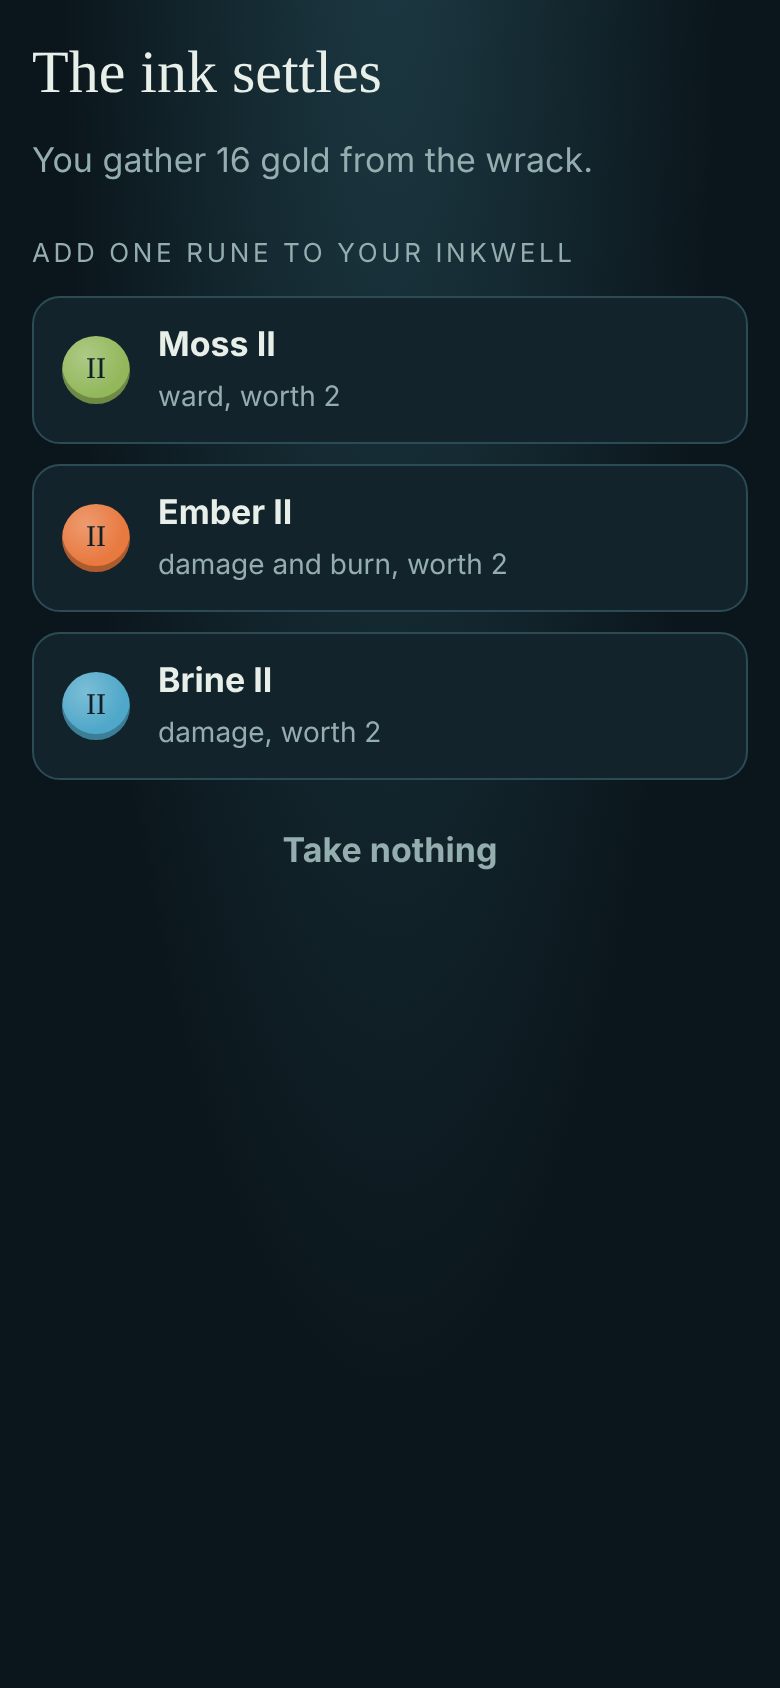
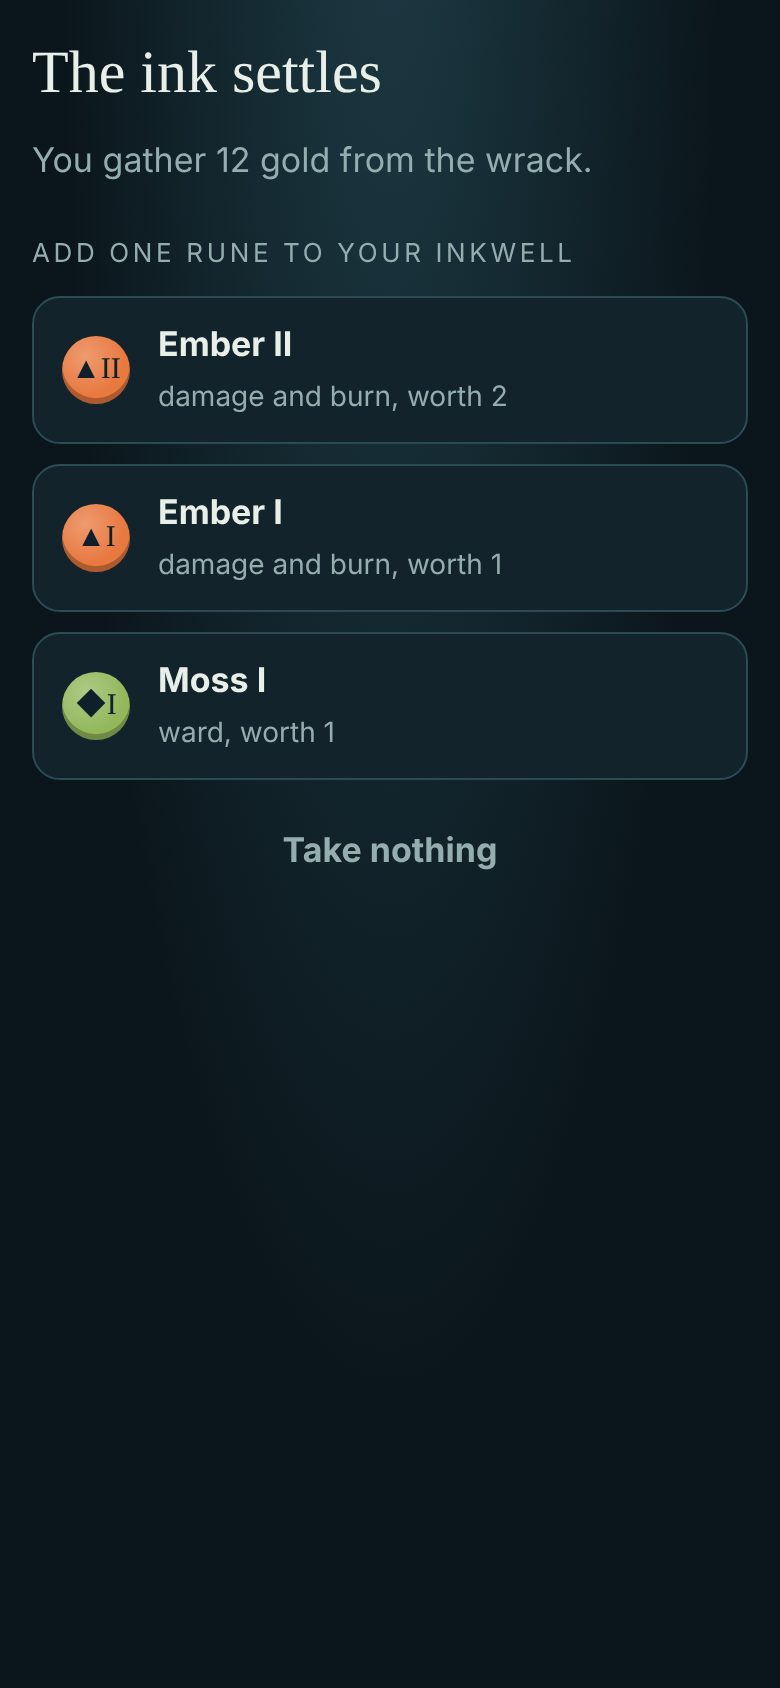
S13 Accessibility

diff --git a/saltscript/e2e/play.js b/saltscript/e2e/play.js
@@ -3,6 +3,8 @@ import { spawn } from 'node:child_process'
 import { mkdirSync } from 'node:fs'
 import { chromium } from 'playwright-core'
 
+const axeScript = new URL('../node_modules/axe-core/axe.min.js', import.meta.url).pathname
+
 const port = 5181
 const shots = new URL('../docs/screenshots/', import.meta.url).pathname
 const server = spawn('node', ['scripts/serve.js'], { env: { ...process.env, PORT: String(port) }, stdio: 'ignore' })
@@ -24,6 +26,29 @@ const swipe = async path => {
   await page.mouse.down()
   for (const point of points.slice(1)) await page.mouse.move(...point, { steps: 4 })
   await page.mouse.up()
+}
+
+const audit = async name => {
+  await page.addScriptTag({ path: axeScript })
+  const { violations } = await page.evaluate(() => window.axe.run())
+  const blocking = violations.filter(({ impact }) => ['serious', 'critical'].includes(impact))
+  assert.deepEqual(
+    blocking.flatMap(({ id, nodes }) => nodes.map(node => `${name}: ${id} ${node.html}`)),
+    [],
+  )
+}
+
+const auditForced = async (name, changes) => {
+  await page.evaluate(next => window.saltscript.play({ ...window.saltscript.run(), ...next }), changes)
+  await audit(name)
+}
+
+const tapPath = async path => {
+  for (const cell of path) {
+    const point = await page.evaluate(c => window.saltscript.pointFor(c), cell)
+    await page.mouse.click(...point)
+  }
+  await page.click('#write')
 }
 
 const screen = () => page.evaluate(() => window.saltscript.run().screen)
@@ -131,8 +156,35 @@ try {
   assert.equal(await screen(), 'map')
   assert.equal((await page.locator('.node.open').count()) >= 1, true)
   await page.context().setOffline(false)
+  await audit('title offline')
+  await page.click('.node.open >> nth=0')
+  assert.equal(await screen(), 'combat')
+  await audit('combat')
+  await page.click('#combat-codex')
+  await audit('codex')
+  await page.click('#codex-close')
+  for (let stroke = 0; stroke < 60 && (await screen()) === 'combat'; stroke++) {
+    await foeSettled()
+    if ((await screen()) !== 'combat') break
+    const path = await page.evaluate(() => window.saltscript.hint())
+    if (path) await tapPath(path)
+    else if (await page.locator('#end-turn').isEnabled()) await page.click('#end-turn')
+  }
+  assert.equal(await screen(), 'reward')
+  await page.waitForSelector('#reward:not([hidden])')
+  await audit('reward')
+  const rune = { id: 'audit', ink: 'moss', value: 2 }
+  await auditForced('map', { screen: 'map', offer: null, combat: null, floor: -1 })
+  await auditForced('market', { screen: 'market', offer: { runes: [rune], marks: ['lampOil'] } })
+  await auditForced('rest', { screen: 'rest', offer: { upgrades: [] } })
+  await auditForced('shrine', { screen: 'shrine', offer: { shrine: 'lamp' } })
+  await auditForced('end', { screen: 'defeat' })
+  await page.click('#end-title-screen')
+  await audit('title')
   assert.deepEqual(errors, [])
-  console.log('e2e passed: first fight won by real swipes, reward taken, run continued after reload')
+  console.log(
+    'e2e passed: fights won by swipes and by taps, every screen audited, run continued after reload and offline',
+  )
 } finally {
   await browser.close()
   server.kill()

diff --git a/saltscript/src/main.js b/saltscript/src/main.js
@@ -29,7 +29,11 @@ const el = (tag, props = {}, ...children) => {
 }
 
 const runeChip = (rune, props = {}) =>
-  el(props.onclick ? 'button' : 'span', { className: `rune ${rune.ink}`, ...props }, numeral(rune.value))
+  el(
+    props.onclick ? 'button' : 'span',
+    { className: `rune ${rune.ink}`, ...props },
+    `${inks[rune.ink].mark}${numeral(rune.value)}`,
+  )
 
 const runeText = rune => `${inks[rune.ink].name} ${numeral(rune.value)}`
 
@@ -256,7 +260,10 @@ const eventText = (combat, event) => {
 }
 
 const renderPreview = combat => {
-  if (path.length < 3) {
+  const ready = path.length >= 3
+  $('write').hidden = !ready
+  $('end-turn').hidden = ready
+  if (!ready) {
     $('preview').replaceChildren(
       path.length ? 'Keep going, three runes at least' : 'Trace three or more touching runes',
     )
@@ -453,35 +460,59 @@ const render = () => {
 
 const canvas = $('board')
 
+let pressed = false
+let swiped = false
+
 const extend = event => {
   const cell = board.cellAt(event.clientX, event.clientY)
-  if (cell === null) return
+  if (cell === null) return false
   if (cell === path.at(-2)) path = path.slice(0, -1)
   else if (canExtend(run.combat, path, cell)) {
     path = [...path, cell]
     scratch(path.length)
-  }
+  } else return false
   renderPreview(run.combat)
+  return true
+}
+
+const tap = event => {
+  const cell = board.cellAt(event.clientX, event.clientY)
+  if (cell === null) return
+  if (cell === path.at(-1)) {
+    path = path.slice(0, -1)
+    return renderPreview(run.combat)
+  }
+  if (extend(event) || !canExtend(run.combat, [], cell)) return
+  path = [cell]
+  scratch(1)
+  renderPreview(run.combat)
+}
+
+const writePath = () => {
+  if (!isValid(run.combat, path)) return
+  meta = saveMeta(hintSeen(meta))
+  dispatch({ type: 'write', path })
 }
 
 canvas.addEventListener('pointerdown', event => {
   if (!canAct()) return
   canvas.setPointerCapture(event.pointerId)
-  path = []
-  extend(event)
+  pressed = true
+  swiped = false
+  tap(event)
 })
 canvas.addEventListener('pointermove', event => {
-  if (path.length) extend(event)
+  if (pressed && path.length && extend(event)) swiped = true
 })
 canvas.addEventListener('pointerup', () => {
-  if (path.length && isValid(run.combat, path)) {
-    meta = saveMeta(hintSeen(meta))
-    dispatch({ type: 'write', path })
-    return
-  }
+  pressed = false
+  if (!swiped) return
+  if (canAct() && isValid(run.combat, path)) return writePath()
   path = []
   if (canAct()) renderPreview(run.combat)
 })
+
+$('write').onclick = writePath
 
 window.addEventListener('resize', () => {
   if (run?.screen === 'map') drawRoutes($('links'), $('floors'), run)
@@ -514,6 +545,10 @@ requestAnimationFrame(frame)
 navigator.serviceWorker?.register('sw.js')
 
 window.saltscript = {
+  play: next => {
+    run = next
+    render()
+  },
   run: () => run,
   hint: () => bestPath(run.combat, 5),
   pointFor: cell => board.pointFor(cell),

diff --git a/saltscript/index.html b/saltscript/index.html
@@ -29,7 +29,7 @@
         <div id="scribes" class="stack" hidden></div>
         <div id="unlocks" class="choices"></div>
       </div>
-      <p class="how">Swipe across three or more touching runes to write a glyph. One ink makes a Seal. Brine and Ember wound, Ember burns, Moss wards.</p>
+      <p class="how">Swipe across three or more touching runes to write a glyph, or tap them in order and press Write. One ink makes a Seal. Brine and Ember wound, Ember burns, Moss wards.</p>
     </section>
 
     <section id="map" class="screen" hidden>
@@ -70,6 +70,7 @@
           <span id="ward" class="pill ward"></span>
           <span id="strokes" class="strokes"></span>
           <button type="button" id="end-turn" class="secondary small">End turn</button>
+          <button type="button" id="write" class="primary small" hidden>Write</button>
         </div>
         <ul id="marks-row" class="marks-row"></ul>
       </footer>

diff --git a/saltscript/src/core/data.js b/saltscript/src/core/data.js
@@ -1,8 +1,8 @@
 export const inks = {
-  brine: { name: 'Brine', color: '#4fa8c9', does: 'damage' },
-  ember: { name: 'Ember', color: '#e8793f', does: 'damage and burn' },
-  moss: { name: 'Moss', color: '#93b85c', does: 'ward' },
-  salt: { name: 'Salt', color: '#d9d3c4', does: 'nothing' },
+  brine: { name: 'Brine', color: '#4fa8c9', does: 'damage', mark: '≈' },
+  ember: { name: 'Ember', color: '#e8793f', does: 'damage and burn', mark: '▲' },
+  moss: { name: 'Moss', color: '#93b85c', does: 'ward', mark: '◆' },
+  salt: { name: 'Salt', color: '#d9d3c4', does: 'nothing', mark: '✕' },
 }
 
 export const writable = ['brine', 'ember', 'moss']

diff --git a/saltscript/src/ui/board.js b/saltscript/src/ui/board.js
@@ -82,7 +82,9 @@ export const createBoard = canvas => {
     ctx.font = `${r * 0.72}px 'IM Fell English SC', Georgia, serif`
     ctx.textAlign = 'center'
     ctx.textBaseline = 'middle'
-    ctx.fillText(numeral(rune.value), x, y + r * 0.04)
+    ctx.fillText(numeral(rune.value), x, y - r * 0.12)
+    ctx.font = `${r * 0.42}px system-ui, sans-serif`
+    ctx.fillText(inks[rune.ink].mark, x, y + r * 0.45)
   }
 
   const draw = (combat, path) => {

diff --git a/saltscript/src/ui/style.css b/saltscript/src/ui/style.css
@@ -733,3 +733,8 @@ button.rune {
 .codex .primary {
   width: 100%;
 }
+
+.you-meter b {
+  color: #0f1f28;
+  text-shadow: none;
+}

diff --git a/saltscript/BACKLOG.md b/saltscript/BACKLOG.md
@@ -4,10 +4,6 @@ The build agent takes items from the top of **Next**, one commit each. Scheduled
 
 ## Next
 
-### S13 Accessibility
-
-axe in e2e on every screen with no serious or critical violations; a tap alternative to swiping (tap runes in order, then Write); each ink also has a shape mark inside the seal so colour is not the only cue. Done when e2e wins a fight using taps only.
-
 ### S14 Showcase
 
 `README.md` with pitch, how to play, how to run, screenshots of title, map, combat and reward; link to `docs/concept.md`. Update the table in the repository root README. Done when it renders on GitHub with the images.
@@ -34,6 +30,7 @@ axe in e2e on every screen with no serious or critical violations; a tap alterna
 - S10 Daily Tide: UTC-seeded run, one attempt per date, share text with ink row (2026-11-02)
 - S11 Codex and first-fight guidance: codex dialog from map and combat, three hints once (2026-11-02)
 - S12 PWA: manifest, service worker with cached shell and fonts, offline play (2026-11-02)
+- S13 Accessibility: axe on every screen, tap and Write input, an ink shape on every rune (2026-11-02)
 
 MVP rule: every commit keeps `npm test`, `npm run check` and `npm run e2e` green.
 

diff --git a/saltscript/MEMORY.md b/saltscript/MEMORY.md
@@ -24,3 +24,5 @@ Rewritten by each run; keep it short.
 - `src/core/daily.js`: `createDailyRun(date)` sets `run.daily`; `meta.daily` holds `{date, result}`; `run.stats.inks` records every written glyph's ink
 - `meta.hints` counts first-fight hints shown, advanced on each written stroke; the codex is a `<dialog>` filled on open
 - `sw.js` shell must list every `src/` file (`test/pwa.test.js` enforces); stale-while-revalidate, so a new deploy shows on the second load
+- Input: a press without a swipe is a tap that keeps the path, and `#write` replaces End turn once 3 runes are held; `window.saltscript.play(run)` forces any screen for e2e audits
+- Gate each commit on real exit codes, never a `tail` of `npm run check`: S11 and S12 went out with a lint error that way
